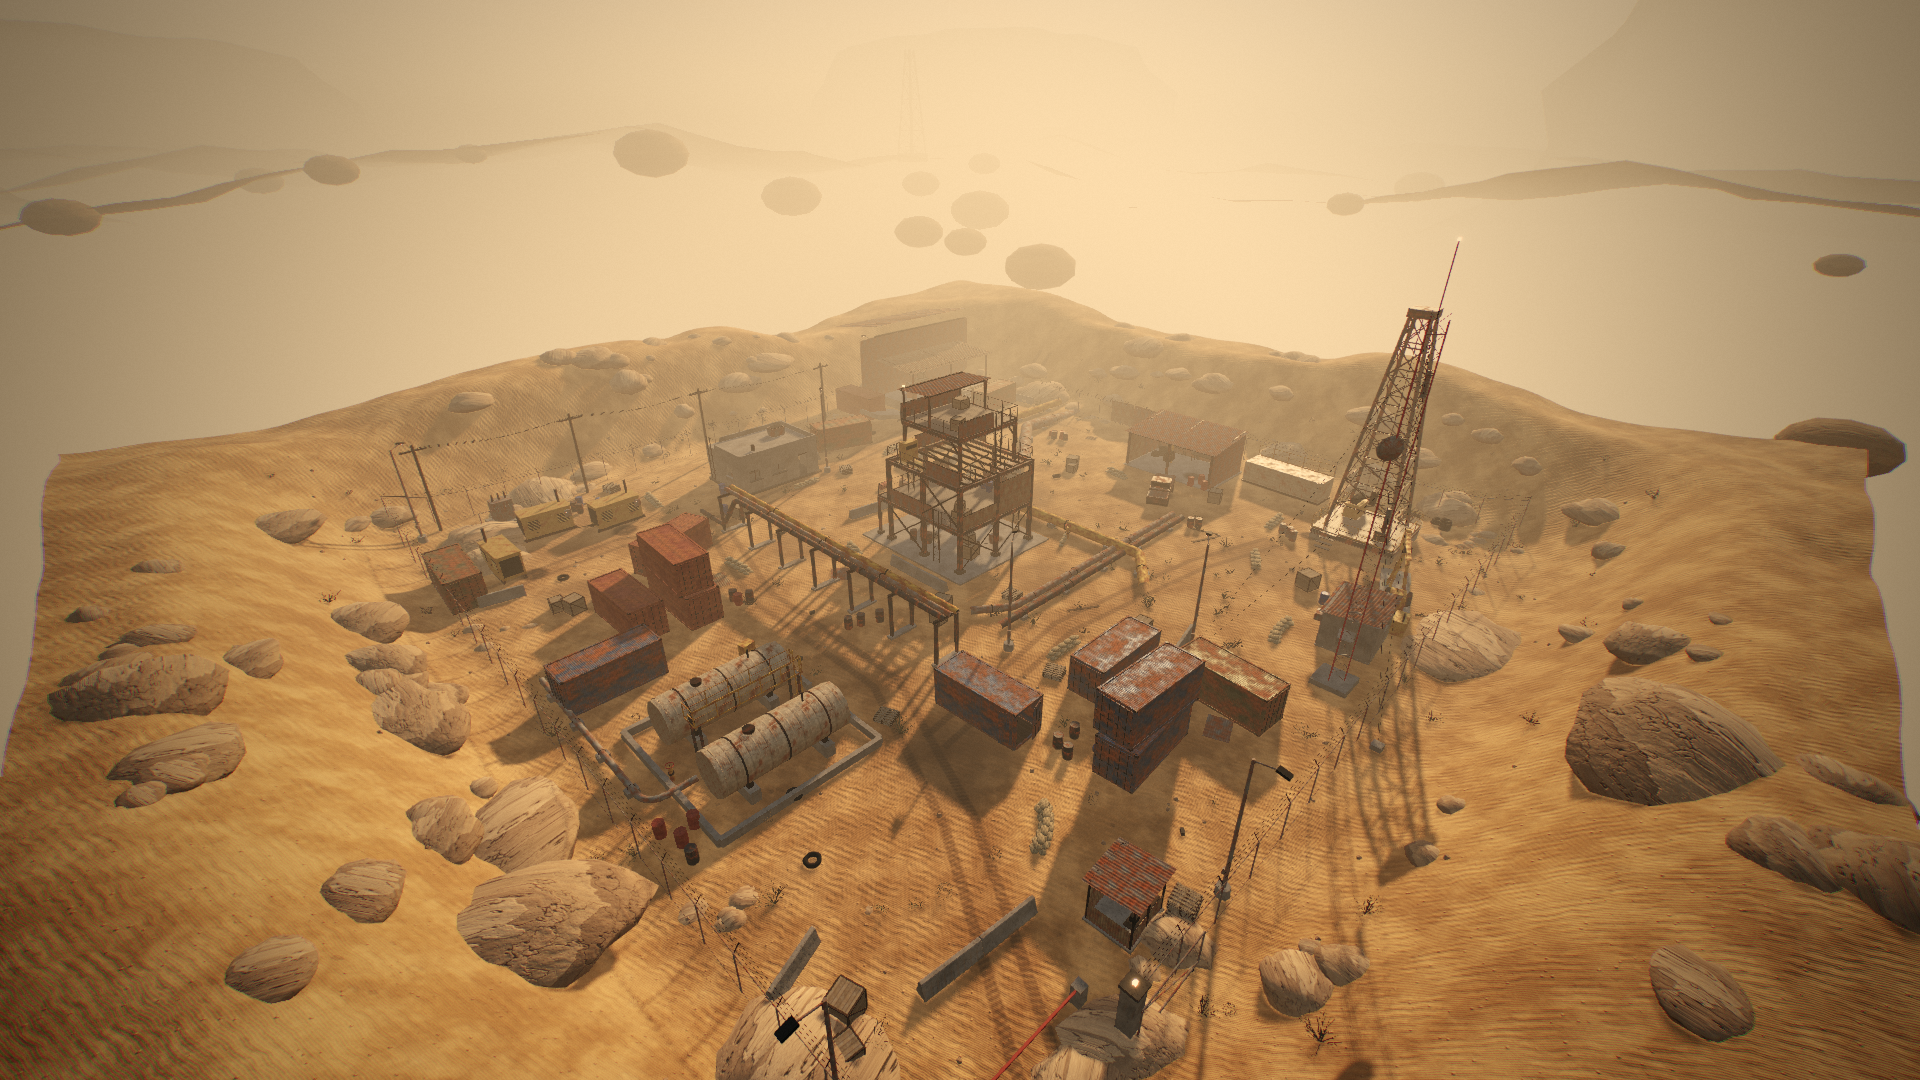
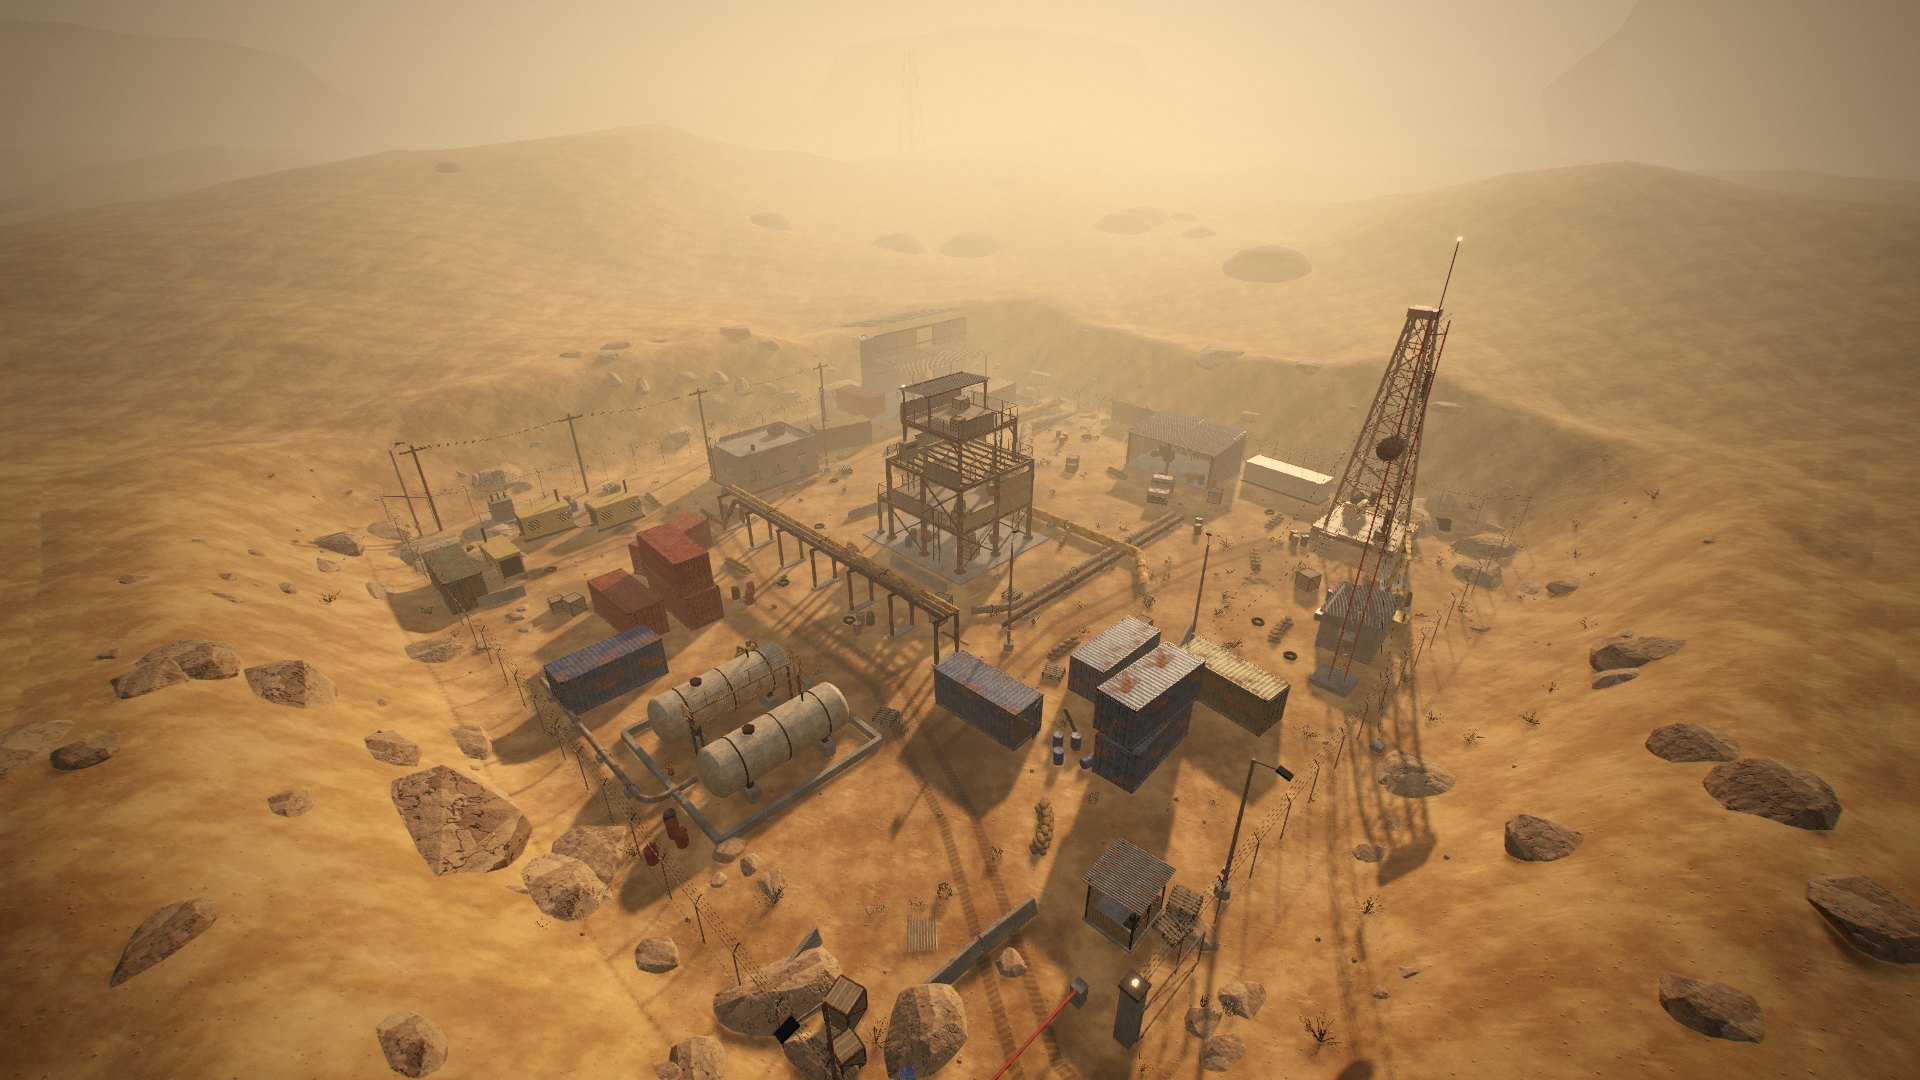
map: final report and verification screenshots
Claude-Session: https://claude.ai/code/session_01Thf9A9snY9iHdAZmxcYnNX

diff --git a/docs/agent-reports/map.md b/docs/agent-reports/map.md
@@ -1,0 +1,58 @@
+# MAP agent report — Rust
+
+## Files
+- `src/world/rust/map.ts`: `buildRustMap` entry point. Sets up tracks and decals, spawns, callouts, environment, menu path and the invisible bounds walls.
+- `src/world/rust/terrain.ts`: analytic `groundY` (flat yard, berms, dune sea), a 0.5 m visual grid, a 1 m collision grid, the polar dune ring and the track/oil/soil decals.
+- `src/world/rust/props.ts`: Instancer, I-beams, angles, real corrugated sheets (sine/trapezoid), ladders, railings, containers, jersey barriers, sandbags, crates, pallets, fences, lights, pipes and saddles, rocks.
+- `src/world/rust/tower.ts`, `zones.ts`, `backdrop.ts`, `minimap.ts`.
+- Changed: `textures.ts` (less tiling on sand, paint wear tuned, new `panel` texture) and `materials.ts` (double-sided containers, sandbag tint, `panel`).
+
+## Layout (north = −Z, bounds ±34)
+| Zone | Centre (x, z) |
+|---|---|
+| Tower | 0, 0.5 |
+| Front Gate (OpFor spawn) | 25, −27 |
+| Loading Dock (TF141 spawn) | −24, 27 |
+| Pipeline | −17, 8 |
+| Oil Derrick | −24, −23 |
+| Blue Containers | 9, −20 |
+| Red Containers | 22, 8 |
+| Fuel Depot | 25, −8 |
+| Generators | 22, 24 |
+| Control Room | 4, 23 |
+| Maintenance | −26, −5 |
+| Comms Station | −6, −27 |
+
+**Tower:** 8×8 m frame. Floors at 0.15, 3.6 (with a south balcony to z 5.4), 7.2 and a roof at 10.5 under a canopy.
+
+**Big pipe:** 1.2 m diameter. It runs from (−33.5, 13.5) up to the F1 west edge at (−4, 2), and its top sits flush with the deck. A flat collision strip along the top keeps it walkable; I checked the heights match the pipe top all the way along.
+
+**Ladders** (6, all dismounts checked):
+- Tower east, ground to F1: (4.1, −1.5)
+- Tower west, ground to F1: (−4.1, −2.5)
+- Tower balcony, F1 to F2: (1.6, 4.1)
+- Tower, F2 to roof: (−1, −3.1)
+- Fuel-depot catwalk: (21.7, −8.7), top at 3.23
+- Control-room roof: (8.3, 25.25), top at 3.54
+
+**Spawns:** 6 TF141, 6 OpFor and 22 `any`. All 34 start clear of geometry (checked with a capsule test).
+
+## Budget (measured in swiftshader)
+- Map meshes: 76 merged, 14 InstancedMesh (1,019 instances), 2 terrain, 3 decal, 1 backdrop. The whole frame took **154 draw calls**.
+- Visible triangles: about 144k static, 229k instanced and 89k terrain.
+- Collision: about 34k triangles.
+- Build time: about 0.8 s for the map plus about 2 s of texture generation on this CPU.
+
+## Known weaknesses
+- With no ambient occlusion, crates and props have no contact shadows and can look like they float when the sun is behind them.
+- Paint and rust textures still visibly repeat on the large warehouse wall. The pickup truck and generators are blocky, and interiors are plain and dark.
+- Shrubs and tumbleweeds are simple. Nothing is destructible.
+- Bullets stop at the pipe-walk strip and deck slabs (all marked `metal`).
+- Only the setup was cloud-tested, under swiftshader and at medium quality. I did not check performance on real hardware.
+
+## CORE REQUESTS
+- `collision.ts` logs a warning: `maxLeafSize` is deprecated, use `targetLeafSize`.
+- `src/ui/ui.css` is imported but missing at 02e0051, so Vite fails until it exists (UI agent). I used an empty, git-excluded copy for testing only.
+- Render: a screen-space AO or contact-shadow pass would ground the props.
+
+Screenshots are in `docs/agent-reports/map/`.
